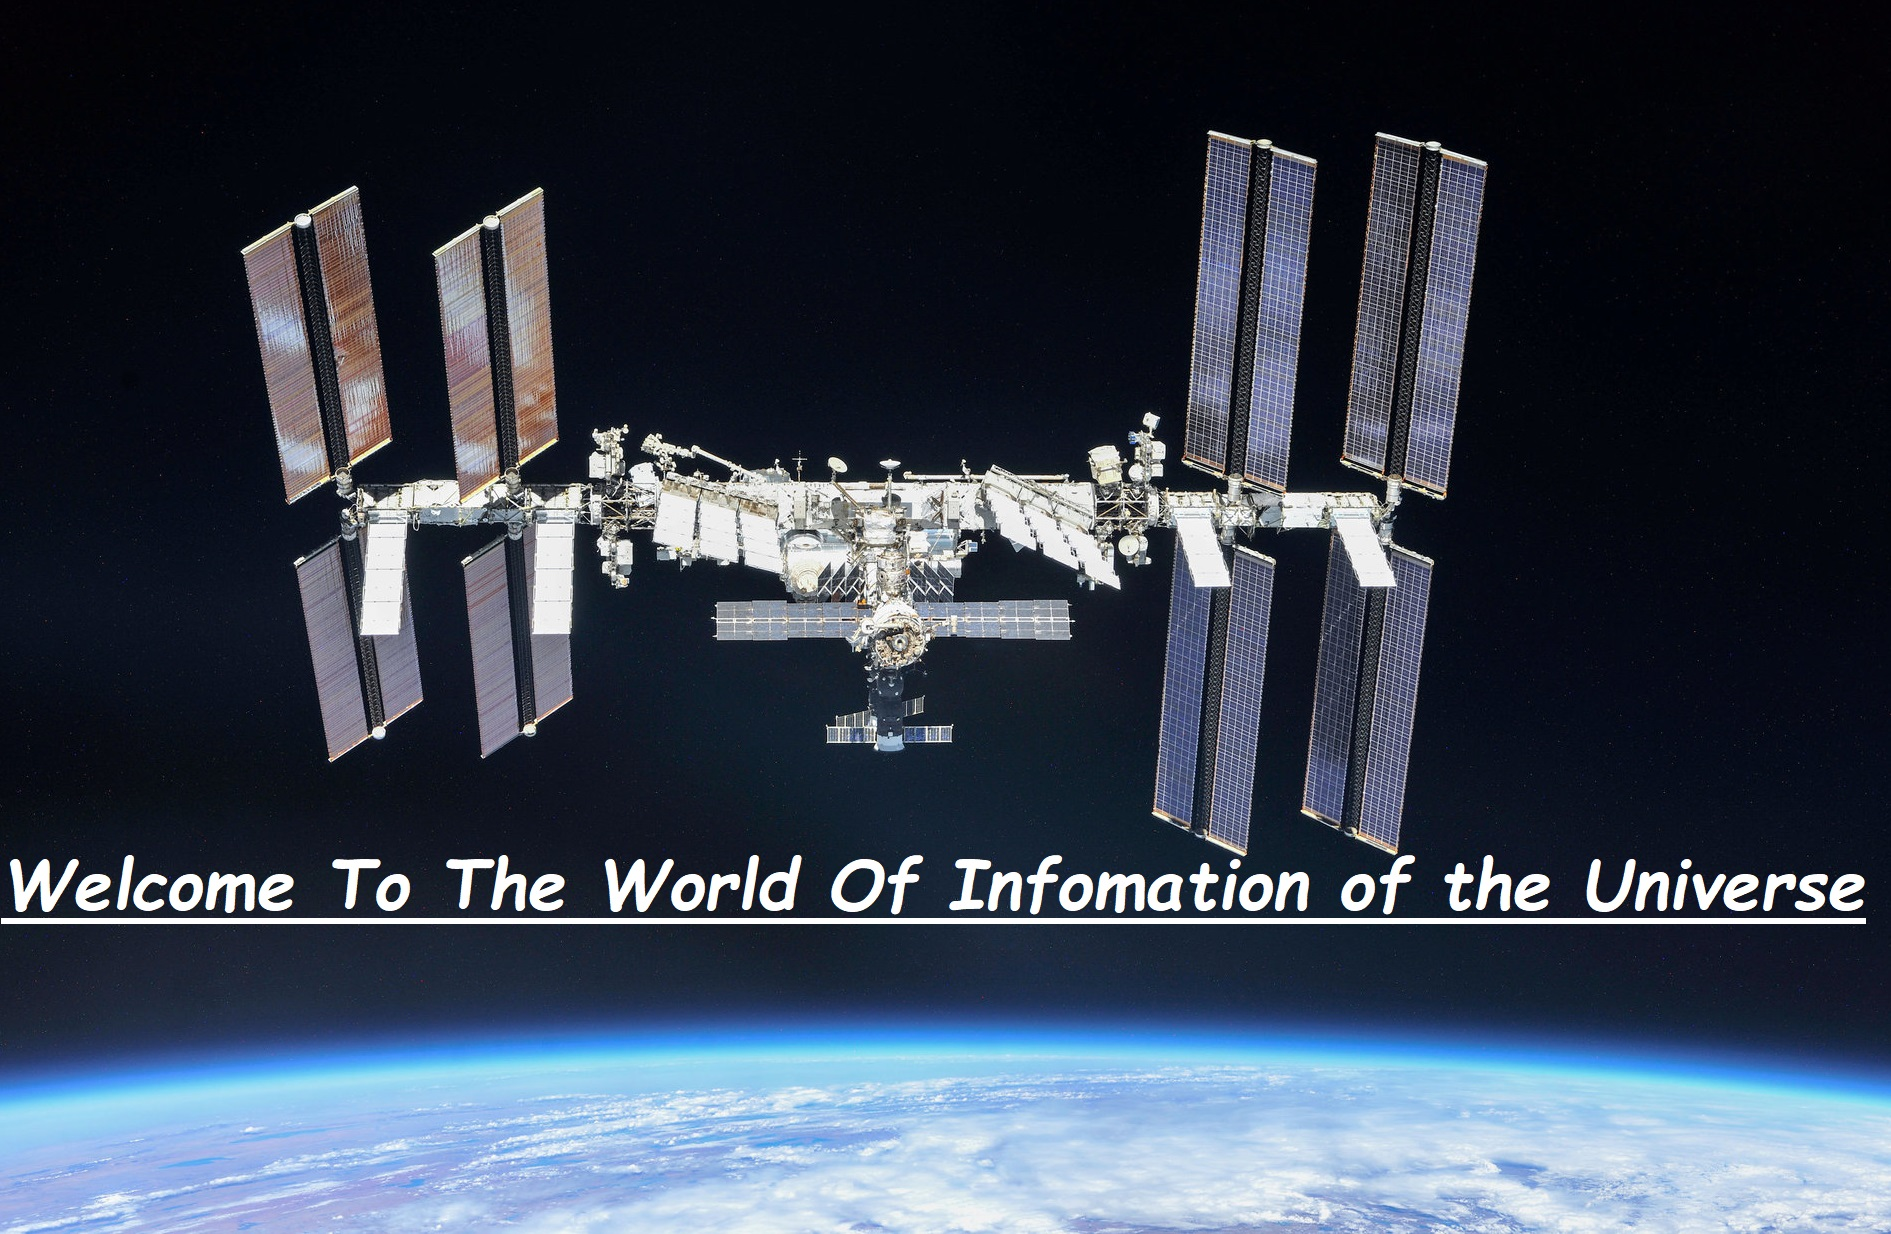
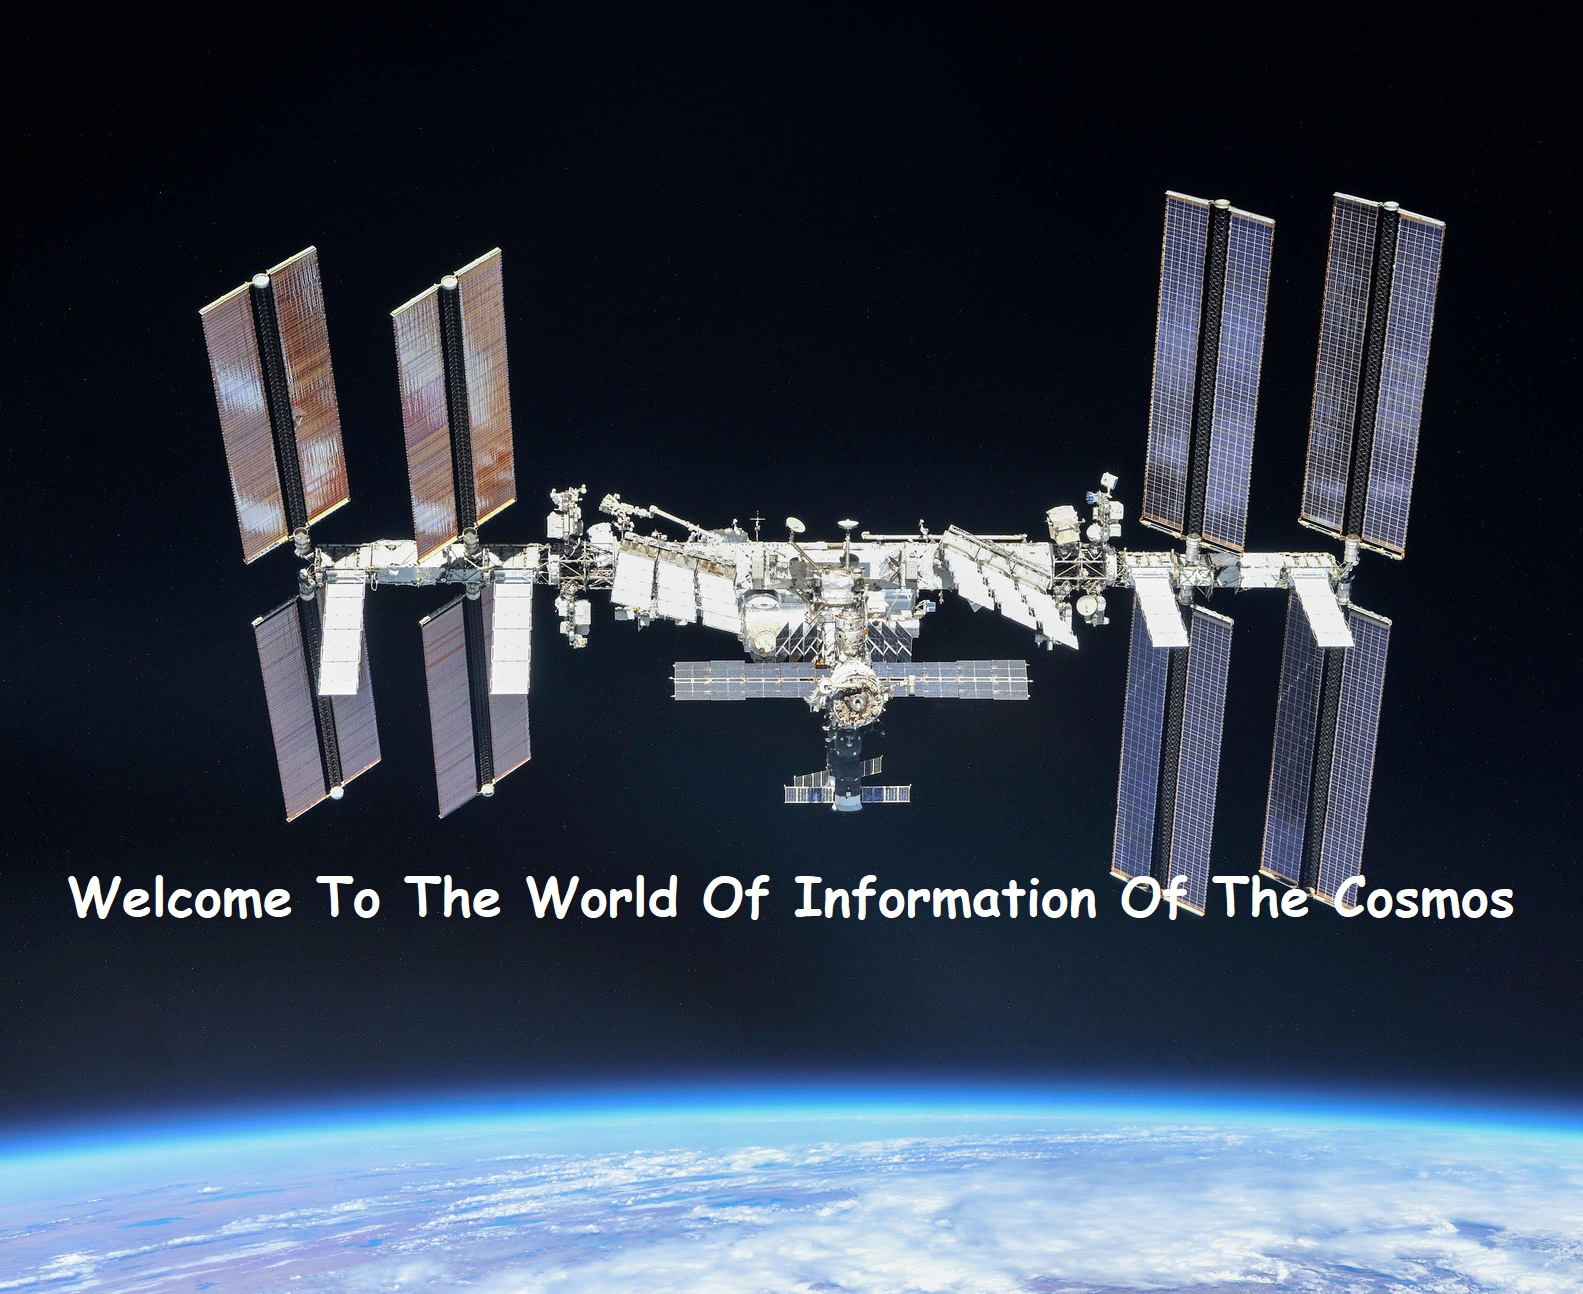
Minior Changes

diff --git a/public/index.html b/public/index.html
@@ -5,13 +5,13 @@
     <meta http-equiv="X-UA-Compatible" content="IE=edge">
     <meta name="viewport" content="width=device-width,initial-scale=1.0">
     <link rel="icon" href="<%= BASE_URL %>favicon.ico">
-    <title>< Cosmos Attraise ></title>
+    <title>Cosmos Attraise</title>
     <link rel="stylesheet" href="https://fonts.googleapis.com/css?family=Roboto:100,300,400,500,700,900">
     <link rel="stylesheet" href="https://cdn.jsdelivr.net/npm/@mdi/font@latest/css/materialdesignicons.min.css">
   </head>
   <body>
     <noscript>
-      <strong>We're sorry but <%= htmlWebpackPlugin.options.title %> doesn't work properly without JavaScript enabled. Please enable it to continue.</strong>
+      <strong>We're sorry but Cosmos Attraise doesn't work properly without JavaScript enabled. Please enable it to continue.</strong>
     </noscript>
     <div id="app"></div>
     <!-- built files will be auto injected -->

diff --git a/src/components/PDay.vue b/src/components/PDay.vue
@@ -7,8 +7,8 @@
         </v-flex>
     </v-card-text>
     <v-card-title>
-      <iframe v-if="pic.media_type === 'video'" :src="pic.url"></iframe>
-      <v-img class="img" contain v-else :src="pic.hdurl" ></v-img>
+      <iframe v-if="pic.media_type === 'video'" class="video" :src="pic.url"></iframe>
+      <v-img class="img" v-else :src="pic.url"></v-img>
     </v-card-title>
     <v-card-text>
        <v-flex xs12 mt-5>
@@ -56,7 +56,12 @@ export default {
   font-size:20px; 
 }
 .img{
-  border-radius: 20px;;
+  border-radius: 20px;
+  height:500px;
+}
+.video{
+  width:1000px;
+  height:500px;
 }
 @media screen and (max-width: 760px) {
   .imgCard{
@@ -64,6 +69,11 @@ export default {
   }
   .img{
     height: 100;
+  }
+  .video{
+    width:500px;
+    height: 250px;
+    margin-left:5px;
   }
 }
 </style>

diff --git a/src/views/Home.vue b/src/views/Home.vue
@@ -2,7 +2,7 @@
   <div class="home">
     <PToolBar Name1="Photo Search" Name2="Today's Pic" Name3="7 Day Pics"/>
       <v-container fluid style="margin-top:100px;">
-          <v-img  style="border-radius: 20px;" height="700" class="img_background" src="../assets/iss.jpg"></v-img>
+          <v-img class="img" style="border-radius:20px;" src="../assets/iss.jpg"></v-img>
       </v-container>
        <PDay  :pic="apod"/>
      <HorizontalList id="day" :Apod="allApod" />
@@ -90,3 +90,14 @@ export default {
   }
 }
 </script>
+<style scoped>
+.img{
+  height:700px;
+}
+@media screen and (max-width:800px){
+  .img{
+    height: 300px;
+    padding:20px;
+  }
+}
+</style>

diff --git a/src/components/PToolbar.vue b/src/components/PToolbar.vue
@@ -1,5 +1,6 @@
 <template>
-  <v-app-bar desne absolute color="black" dark height="100px">
+<div style="width:max-content;" class="main">
+   <v-app-bar desne absolute color="black" dark  height="100px">
     <v-layout justify>
       <v-container>
         <v-layout>
@@ -33,6 +34,7 @@
       </v-container>
     </v-layout>
   </v-app-bar>
+</div>
 </template>
 
 <script>

diff --git a/src/components/HorizontalList.vue b/src/components/HorizontalList.vue
@@ -47,8 +47,7 @@
             {end: 576, size: 1}, 
             {start: 576, end: 768, size: 2},
             {start: 768, end: 992, size: 3},
-            {size: 4},
-            {size:5}
+            {size: 4}
           ]
         }
       }
